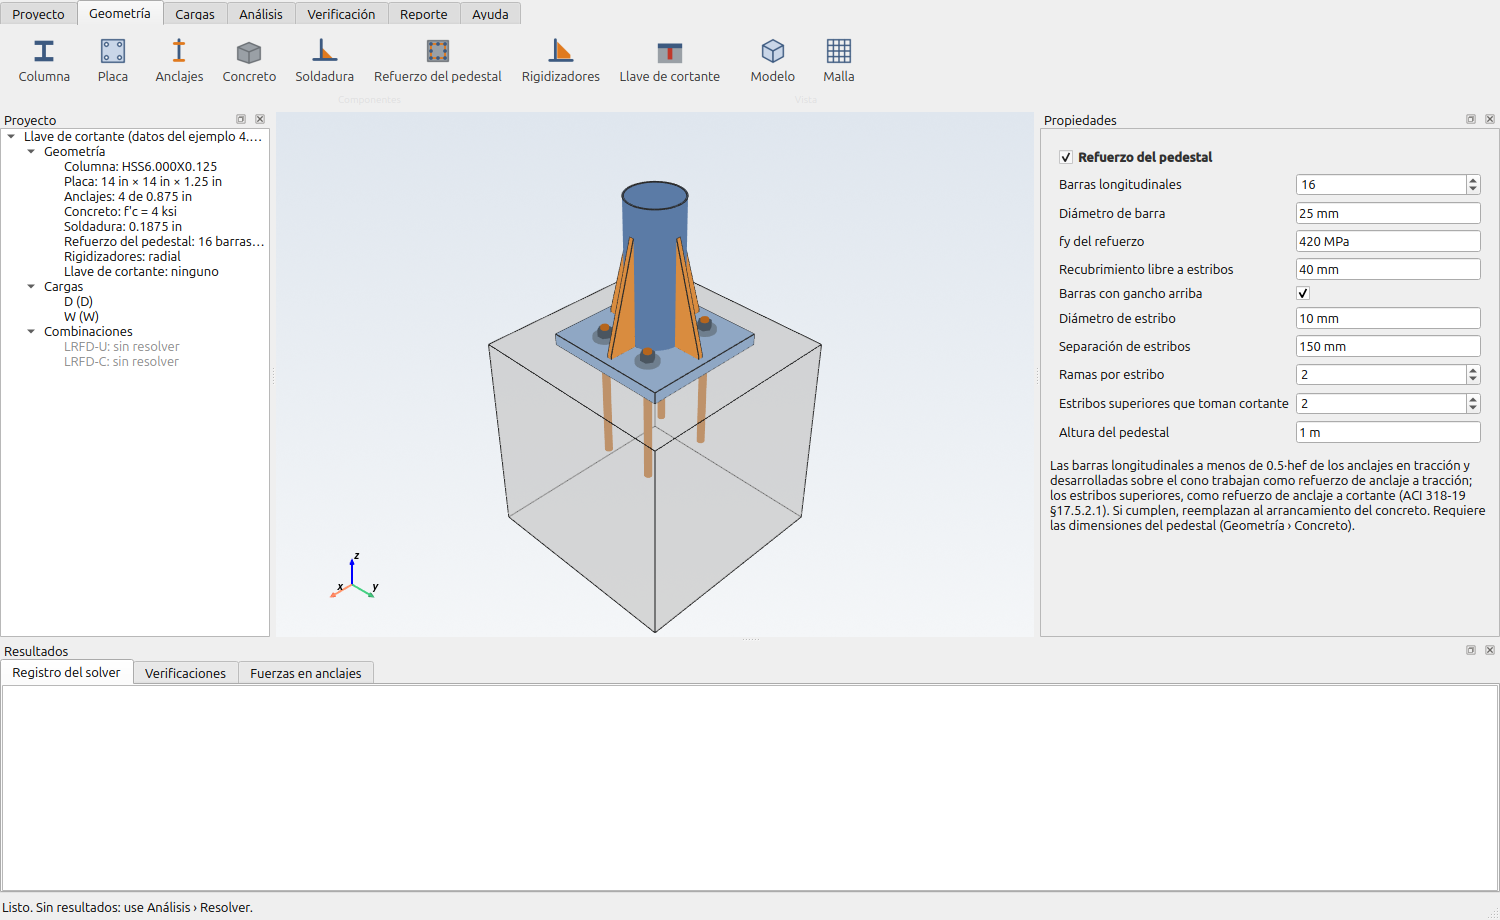
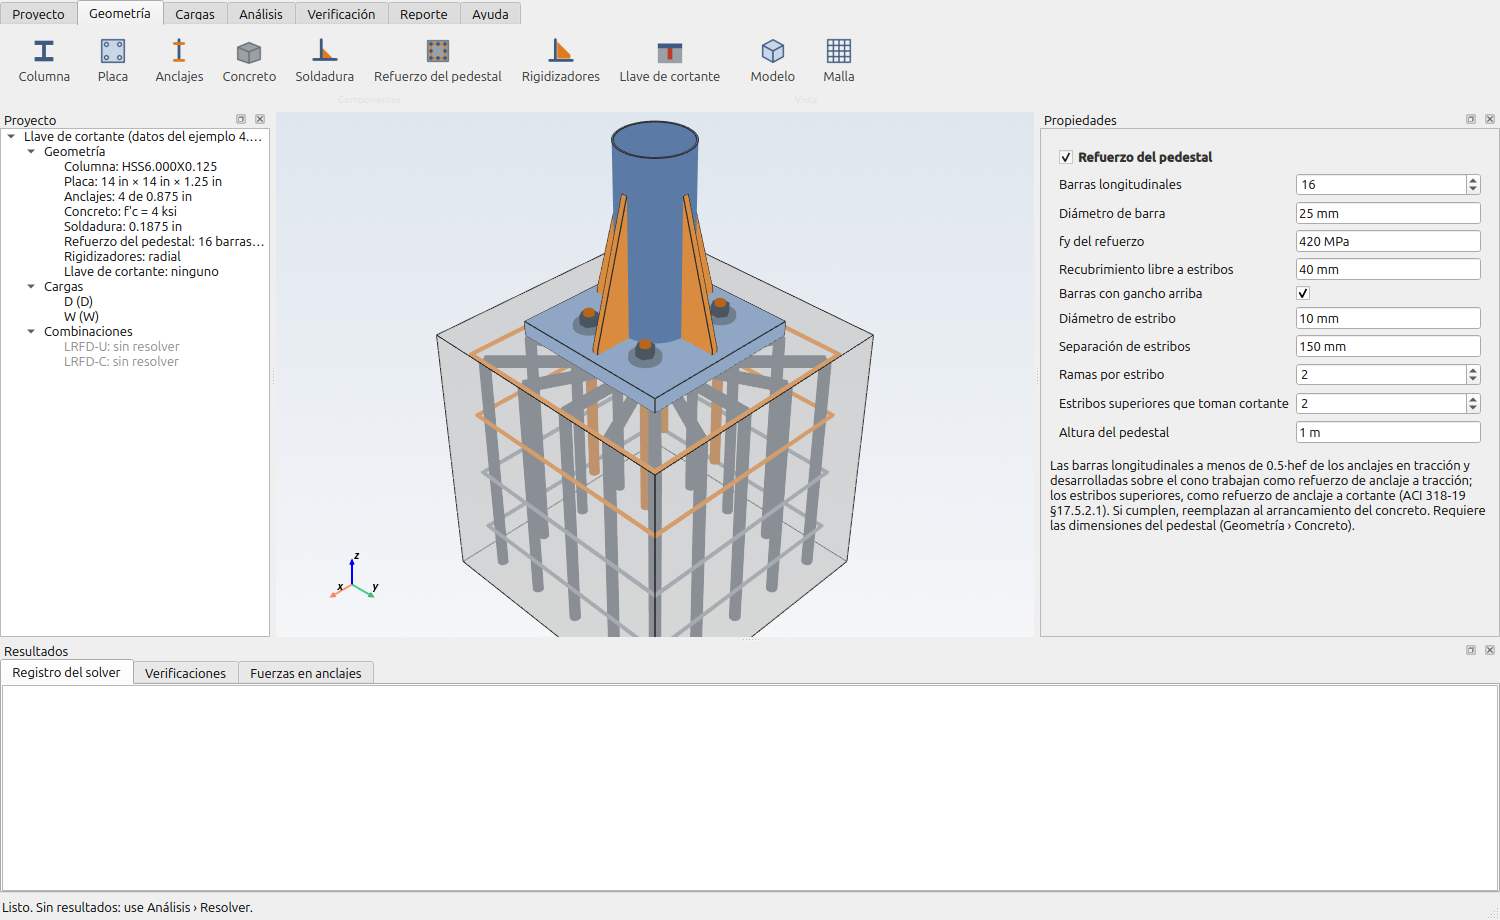
Dibujo del refuerzo del pedestal (barras, ganchos y estribos)
Se dibuja en el visor y en las figuras del reporte; los estribos que toman
cortante van en naranja. No cambia el modelo FEM.

Changed region(s): [[0.276, 0.1217, 0.5827, 0.7]]

diff --git a/src/openfemconex/scenes.py b/src/openfemconex/scenes.py
@@ -82,6 +82,45 @@ def _lug(plotter, model: BasePlateModel) -> None:
         plotter.add_mesh(box.extract_feature_edges(), color="#5a1a12", line_width=1.5)
 
 
+def _rebar(plotter, model: BasePlateModel) -> None:
+    """Pedestal bars and ties, inside the (transparent) concrete block.
+
+    Ties that take shear as anchor reinforcement are drawn in orange, the others grey.
+    """
+    import pyvista as pv
+
+    r = model.rebar
+    if r is None:
+        return
+    c = model.concrete
+    bars = r.positions(c.N, c.B)
+    if not bars:
+        return
+    top = -(r.cover + r.tie_diameter + r.bar_diameter / 2)
+    bottom = -c.H
+    for x, y in bars:
+        line = pv.Line((x, y, bottom), (x, y, top))
+        plotter.add_mesh(line.tube(radius=r.bar_diameter / 2, n_sides=10), color="#55606b")
+        if r.hooked:
+            # standard hook towards the centre of the section
+            length = 12 * r.bar_diameter
+            dx, dy = -x, -y
+            norm = (dx * dx + dy * dy) ** 0.5 or 1.0
+            end = (x + dx / norm * length, y + dy / norm * length, top)
+            plotter.add_mesh(pv.Line((x, y, top), end).tube(radius=r.bar_diameter / 2,
+                                                            n_sides=10), color="#55606b")
+    inset = r.cover + r.tie_diameter / 2
+    a, b = c.N / 2 - inset, c.B / 2 - inset
+    z = -(r.cover + r.tie_diameter / 2)
+    k = 0
+    while z > bottom + r.cover:
+        loop = pv.MultipleLines([(-a, -b, z), (a, -b, z), (a, b, z), (-a, b, z), (-a, -b, z)])
+        color = "#e07a1f" if k < r.top_ties else "#8a949e"
+        plotter.add_mesh(loop.tube(radius=r.tie_diameter / 2, n_sides=8), color=color)
+        z -= r.tie_spacing
+        k += 1
+
+
 def _anchor_labels(plotter, model: BasePlateModel, results: Results, unit_force: float,
                    force_label: str) -> None:
     """Axial force (tension +) and shear of every anchor rod, next to it."""
@@ -123,6 +162,7 @@ def draw_model(plotter, model: BasePlateModel, mesh: Mesh, edges: bool = False,
                              line_width=1.2)
     _rods(plotter, model)
     _lug(plotter, model)
+    _rebar(plotter, model)
     _finish(plotter, reset)
 
 
@@ -153,6 +193,7 @@ def draw_results(plotter, vtu: str | Path, model: BasePlateModel, results: Resul
         plotter.add_mesh(concrete.extract_surface(), color=COLORS[3], opacity=0.3)
         _rods(plotter, model)
         _lug(plotter, model)
+        _rebar(plotter, model)
     _anchor_labels(plotter, model, results, unit_force, force_label)
     _finish(plotter, reset)
     if name == "CPRESS":

diff --git a/tests/test_extras.py b/tests/test_extras.py
@@ -113,3 +113,20 @@ def test_fem_with_free_anchors_and_pedestal(tmp_path):
     # unless both fail
     pair = (checks["anchor.concrete_breakout_shear"], checks["anchor.reinforcement_shear"])
     assert sum(r.applicable for r in pair) == 1 or all(r.status.value == "ng" for r in pair)
+
+
+def test_pedestal_rebar_reaches_the_model_but_not_the_deck(tmp_path):
+    """The bars are drawn and checked; the FEM input deck does not change with them."""
+    from openfemconex.inp import write_inp
+    from openfemconex.mesh import build_mesh
+    from openfemconex.model import MeshSettings
+
+    project, extras = load_extended(EXAMPLE)
+    with_bars = model_of(project, extras=extras)
+    without = model_of(project, extras=type(extras)(anchors=extras.anchors))
+    assert with_bars.rebar is extras.pedestal and without.rebar is None
+    loads = project_loads(project)[0][1]
+    mesh = build_mesh(without, MeshSettings(size_fine=25.0))
+    write_inp(tmp_path / "a.inp", with_bars, mesh, loads)
+    write_inp(tmp_path / "b.inp", without, mesh, loads)
+    assert (tmp_path / "a.inp").read_text() == (tmp_path / "b.inp").read_text()

diff --git a/src/openfemconex/openconex_bridge.py b/src/openfemconex/openconex_bridge.py
@@ -120,6 +120,8 @@ def model_from_base_plate(bp: BasePlate, *, mu: float | None = None,
         stiffener_steel = Steel(grade.Fy, grade.Fu, name=extras.stiffeners.grade)
     return BasePlateModel(
         section=section, stiffeners=stiffeners, stiffener_steel=stiffener_steel,
+        rebar=(extras.pedestal if extras and extras.pedestal and bp.pedestal_N
+               and bp.pedestal_B else None),
         lug=(ShearLug(bp.shear_lug.width, bp.shear_lug.thickness, bp.shear_lug.embedment,
                       bp.shear_lug.direction) if bp.shear_lug else None),
         column_steel=Steel(col.material.Fy, col.material.Fu, name=col.grade),

diff --git a/src/openfemconex/model.py b/src/openfemconex/model.py
@@ -260,6 +260,9 @@ class BasePlateModel:
     """Column eccentricity on the plate."""
     stiffeners: tuple[Stiffener, ...] = ()
     lug: ShearLug | None = None
+    rebar: object | None = None
+    """Pedestal reinforcement (extras.PedestalRebar). It is not part of the FEM model
+    (the concrete is a plain elastic block): it is drawn and used by the checks."""
     stiffener_steel: Steel | None = None
     column_length: float | None = None
     """Modelled column length above the plate (default 2.5 × largest section dimension)."""

diff --git a/src/openfemconex/help/es/02_modelo.md b/src/openfemconex/help/es/02_modelo.md
@@ -27,6 +27,10 @@ Además de los datos de OpenConex, el archivo `.ocnx` puede llevar:
 - **Rigidizadores** (Geometría › Rigidizadores): en línea con el alma o tres
   por patín para perfiles W, y radiales para tubos circulares.
 
+El refuerzo del pedestal se dibuja dentro del concreto (estribos que toman
+cortante en naranja), pero no forma parte del modelo FEM: solo entra en las
+verificaciones.
+
 Un archivo con estos datos solo se abre en OpenFEMConex.
 
 ## Malla

diff --git a/src/openfemconex/help/en/02_modelo.md b/src/openfemconex/help/en/02_modelo.md
@@ -27,6 +27,9 @@ Besides the OpenConex data, the `.ocnx` file can hold:
 - **Stiffeners** (Geometry › Stiffeners): in line with the web or three per
   flange for W shapes, radial for round tubes.
 
+The pedestal reinforcement is drawn inside the concrete (ties taking shear in
+orange), but it is not part of the FEM model: it enters only the checks.
+
 A file with these data opens only in OpenFEMConex.
 
 ## Mesh
